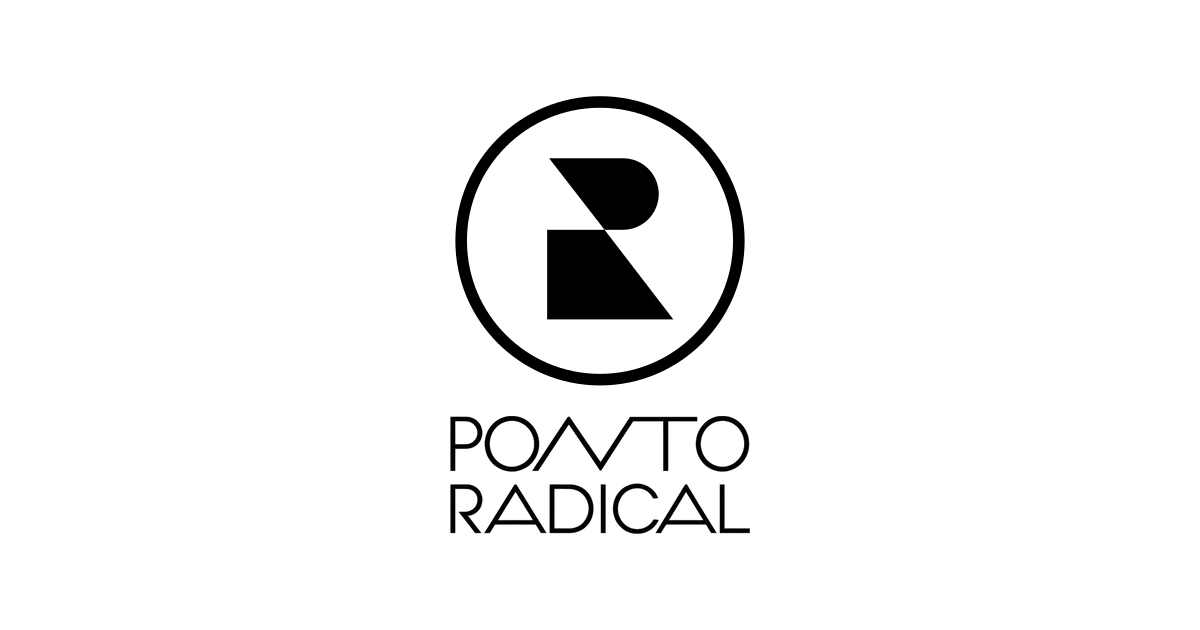
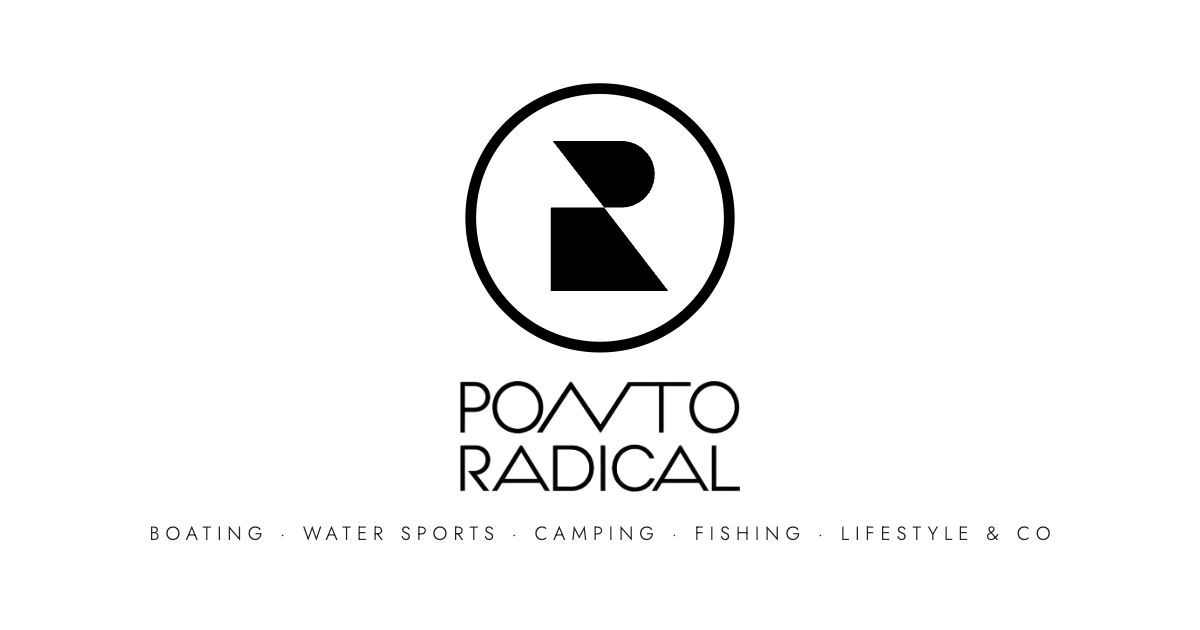
feat(site): assinatura «Boating · Water Sports · Camping · Fishing · Lifestyle & Co»
- Assinatura num só sítio (lib/brand.ts), usada no ecrã de entrada e no
  emblema circular da abertura.
- Imagem de partilha (public/brand/og-ponto-radical.png) com a assinatura
  por baixo do logótipo, em Jost fino como o texto do logótipo.

diff --git a/components/site/sections.tsx b/components/site/sections.tsx
@@ -33,6 +33,7 @@ import { CountUp } from "./fx/count-up";
 import { DragScroll } from "./fx/drag-scroll";
 import { ServicesExplorer, ServicesNote } from "./booking/services-explorer";
 import { visibleServices } from "@/lib/cms/validate";
+import { BRAND_TAGLINE_PARTS } from "@/lib/brand";
 import type { Locale } from "@/lib/i18n/config";
 import type { Messages } from "@/lib/i18n/messages";
 
@@ -84,7 +85,7 @@ function SpinBadge({ text, logo }: { text: string; logo: string }) {
           <path id="pr-badge-path" d="M100,100 m-78,0 a78,78 0 1,1 156,0 a78,78 0 1,1 -156,0" />
         </defs>
         {/* textLength = perímetro do círculo (2π × 78 ≈ 490): o texto ocupa a volta completa sem se sobrepor. */}
-        <text fill="currentColor" style={{ font: "700 10px var(--pr-font-body)", textTransform: "uppercase" }}>
+        <text fill="currentColor" style={{ font: "700 9px var(--pr-font-body)", textTransform: "uppercase" }}>
           <textPath href="#pr-badge-path" textLength="488" lengthAdjust="spacing">
             {text}
           </textPath>
@@ -104,7 +105,7 @@ export function HeroSection({ section, doc, m, locale }: Props<"hero">) {
   const centered = section.align === "center";
   const stripBrands = doc.brands.filter((b) => b.visible);
   const brandNames = stripBrands.map((b) => b.name);
-  const badgeText = `${doc.settings.siteName} • Boating • Water sports • Camping • Fishing & Co • `;
+  const badgeText = `${[doc.settings.siteName, ...BRAND_TAGLINE_PARTS].join(" • ")} • `;
 
   return (
     <section

diff --git a/components/site/language-gate.tsx b/components/site/language-gate.tsx
@@ -3,6 +3,7 @@
 import { useEffect, useRef, useState, useSyncExternalStore } from "react";
 import { LOCALE_INFO, LOCALES, localePath, type Locale } from "@/lib/i18n/config";
 import { getMessages } from "@/lib/i18n/messages";
+import { BRAND_TAGLINE } from "@/lib/brand";
 import { skipNextGate } from "./language-switcher";
 
 const noopSubscribe = () => () => {};
@@ -92,7 +93,7 @@ export function LanguageGate({
         </div>
         {/* eslint-disable-next-line @next/next/no-img-element */}
         <img src="/brand/ponto-radical-wordmark.png" alt="" aria-hidden width={641} height={253} className="mt-6 h-auto w-[clamp(9rem,26vw,13rem)]" />
-        <p className="pr-logo-type mt-5 text-center text-[clamp(0.62rem,1.6vw,0.8rem)] text-black/70">Boating · Water Sports · Camping · Fishing &amp; Co</p>
+        <p className="pr-logo-type mt-5 text-center text-[clamp(0.62rem,1.6vw,0.8rem)] text-black/70">{BRAND_TAGLINE}</p>
 
         <h1 id="pr-gate-title" className="sr-only">
           {siteName} — {getMessages(locale).intro.prompt}

diff --git a/lib/brand.ts b/lib/brand.ts
@@ -1,0 +1,3 @@
+/** Assinatura da marca (ecrã de entrada, emblema circular e imagem de partilha). */
+export const BRAND_TAGLINE_PARTS = ["Boating", "Water Sports", "Camping", "Fishing", "Lifestyle & Co"] as const;
+export const BRAND_TAGLINE = BRAND_TAGLINE_PARTS.join(" · ");
